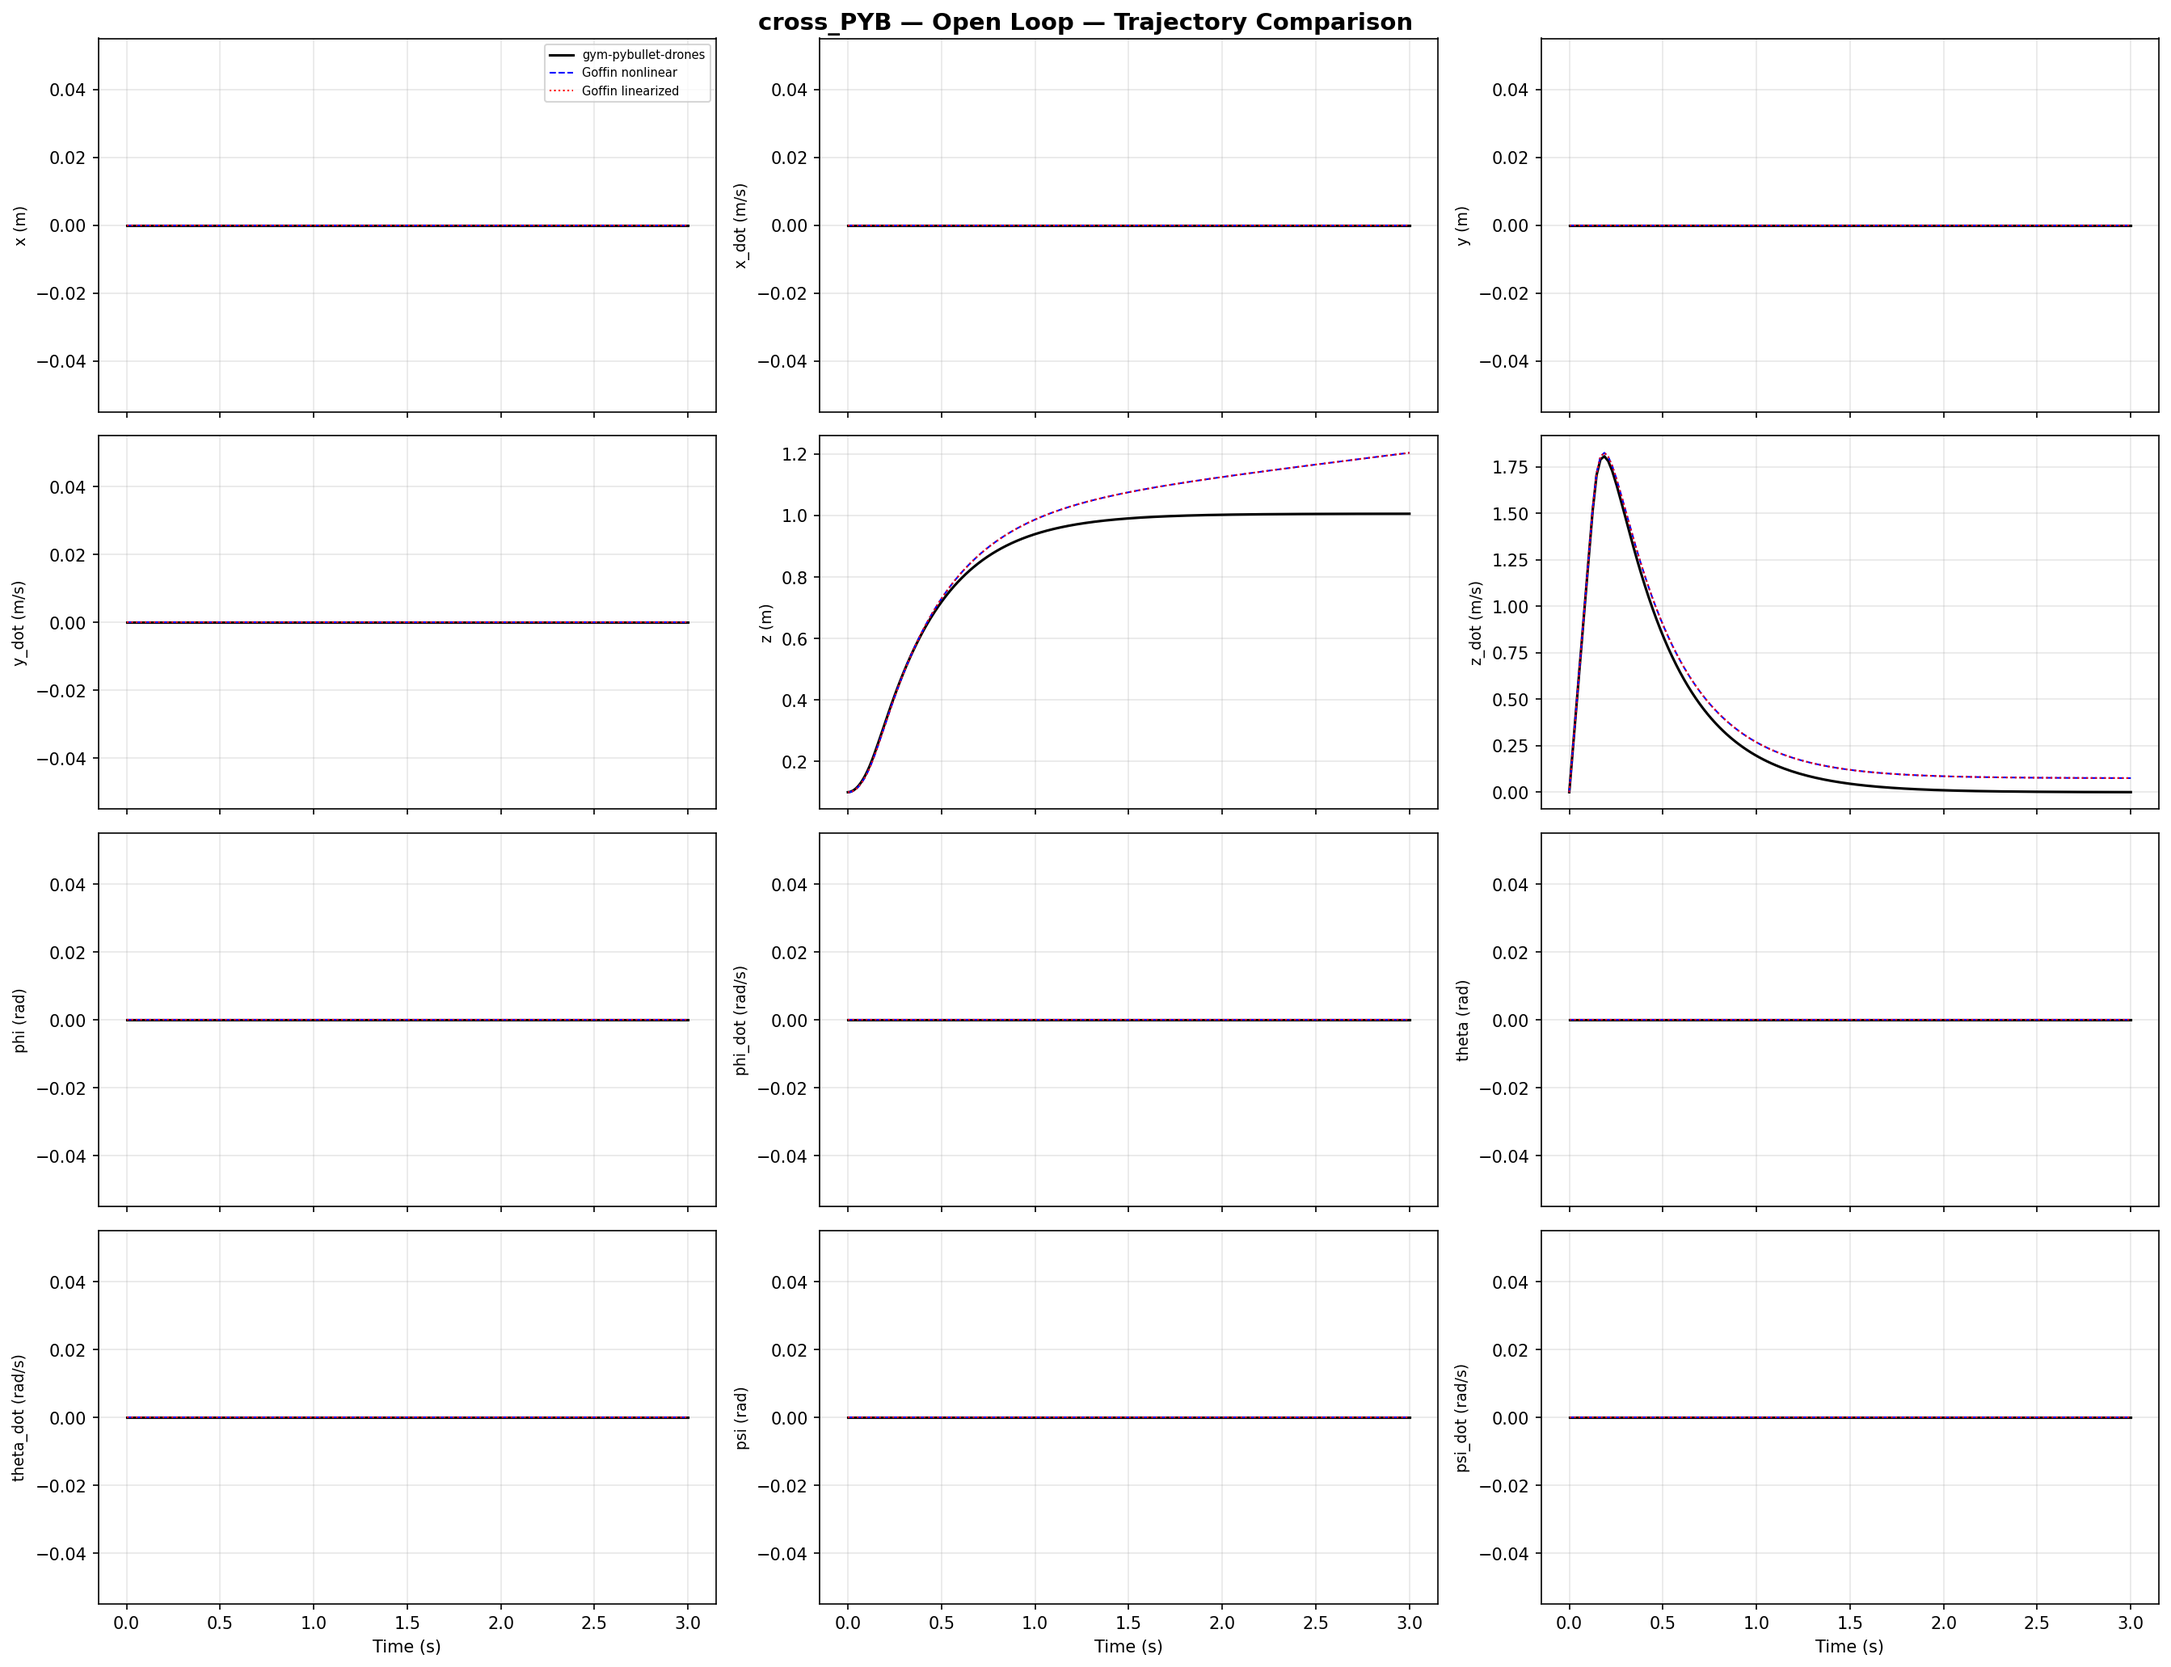
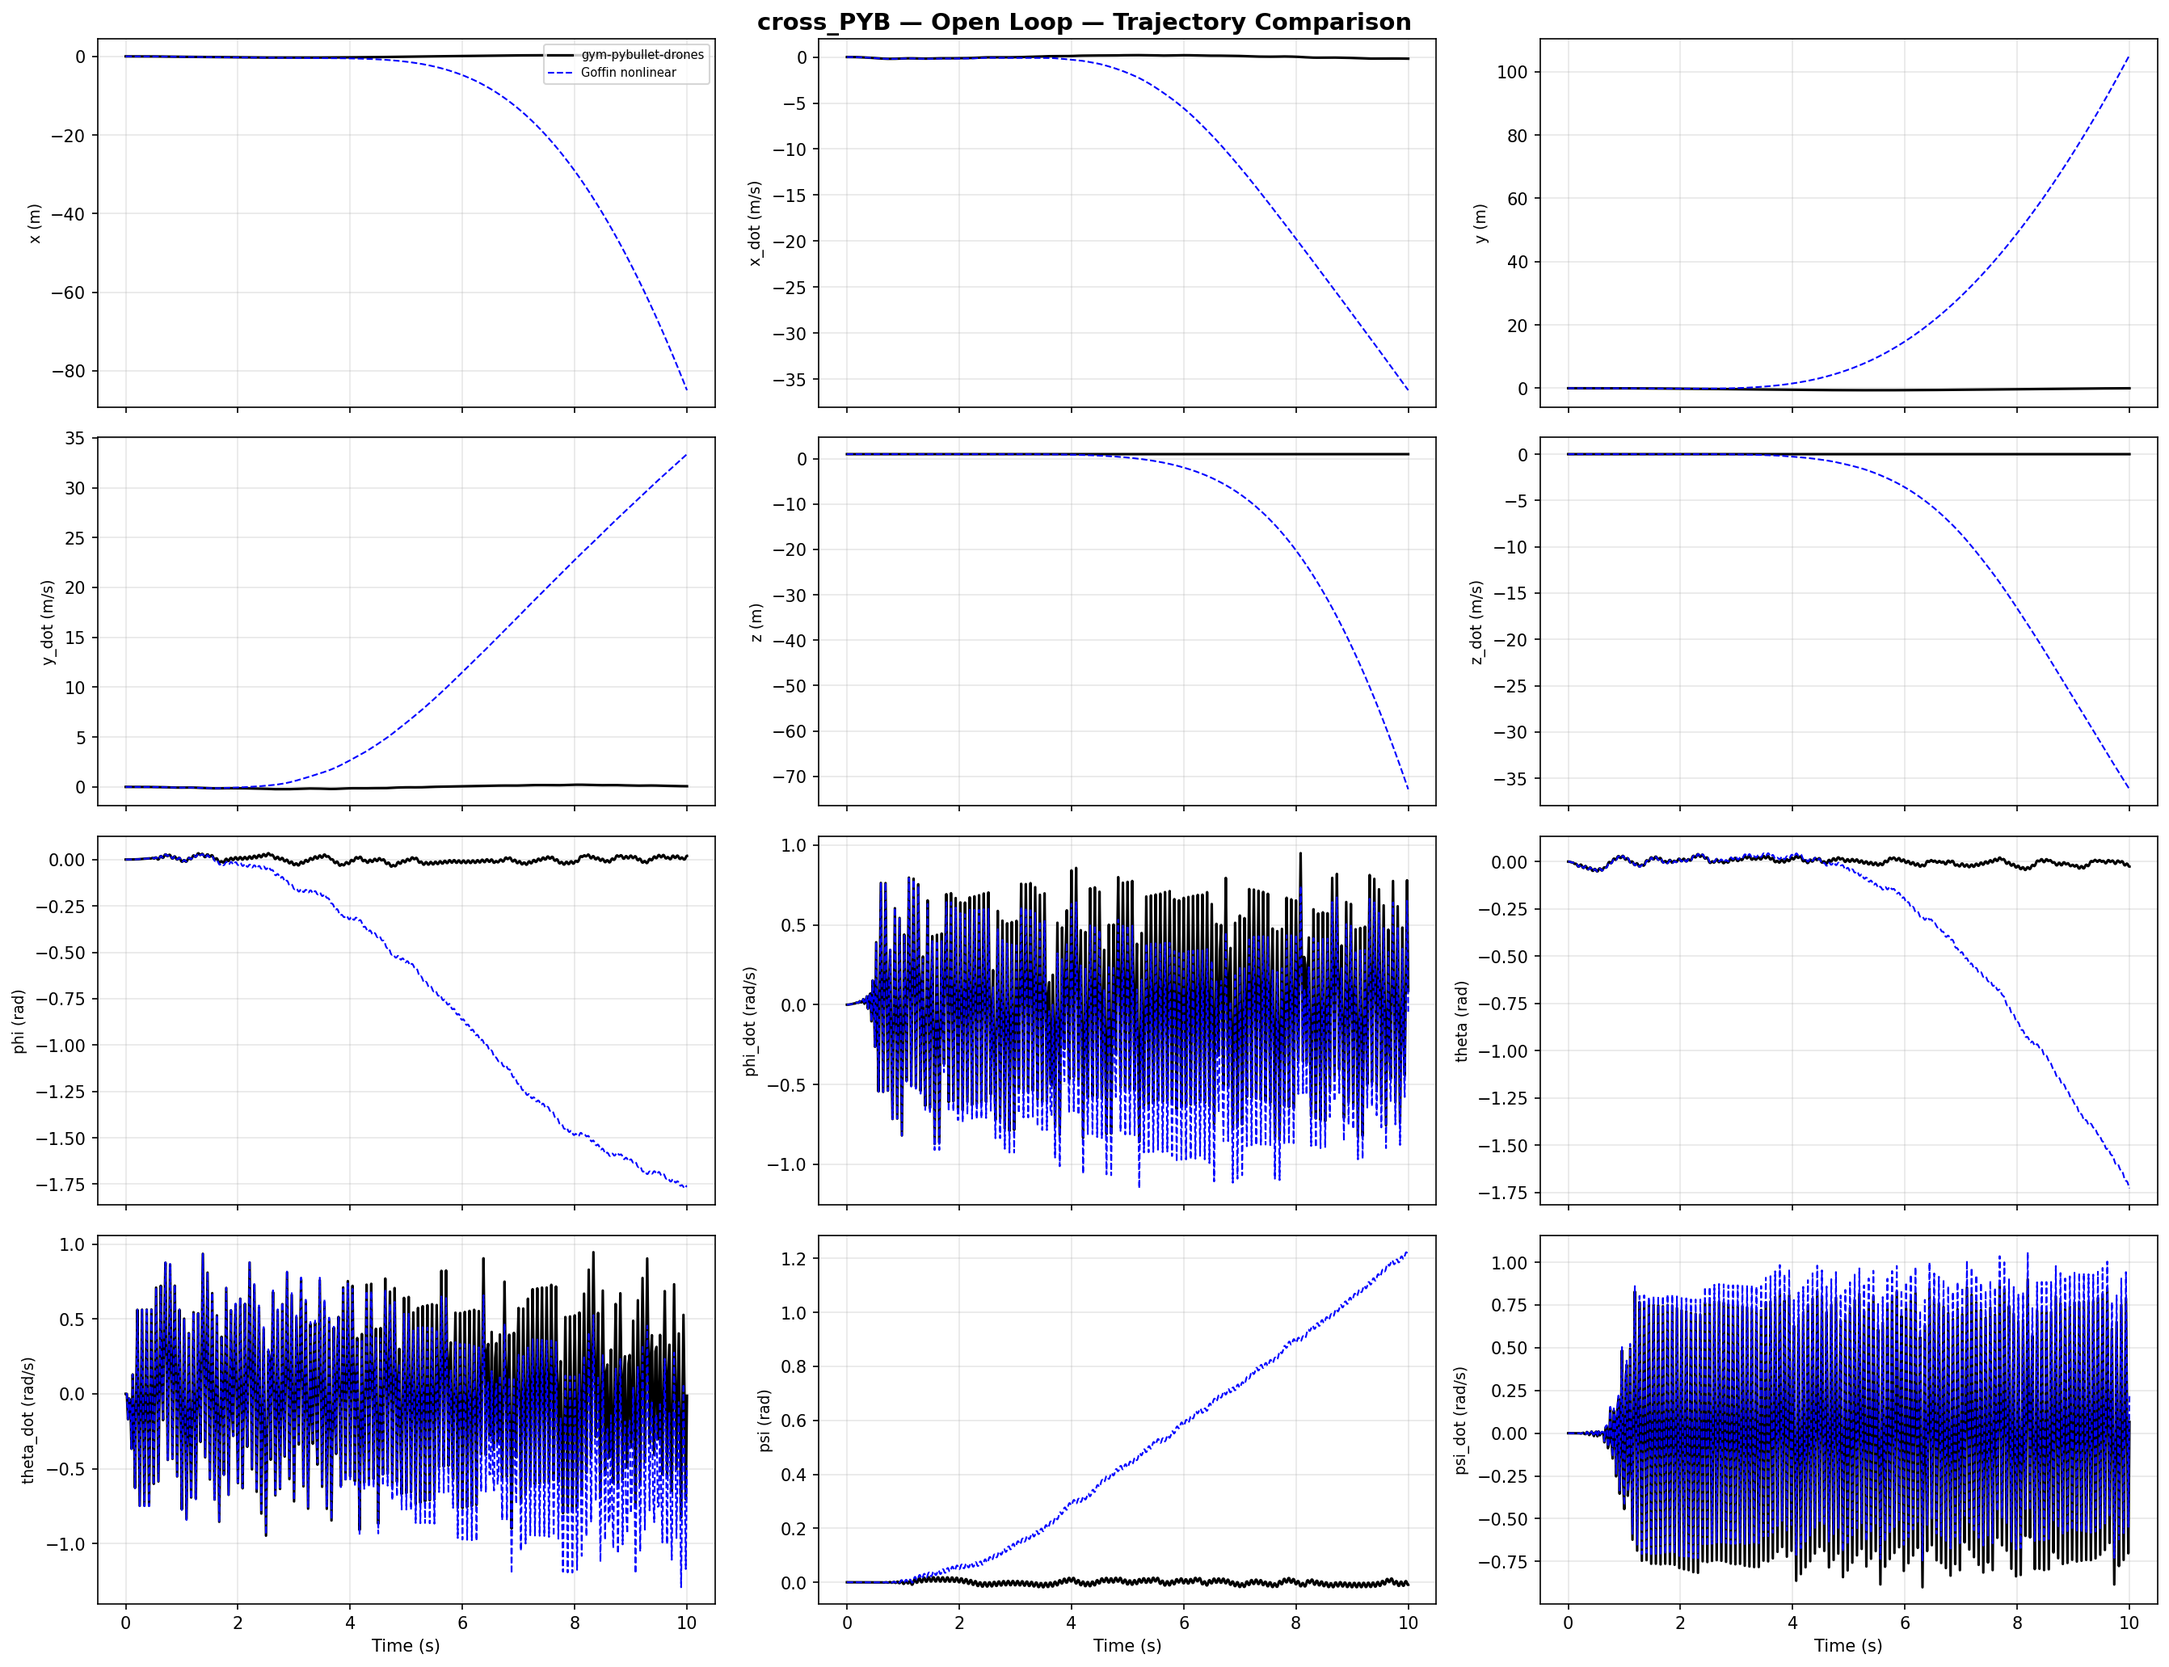
removed body to euler conversion

diff --git a/goffin_dynamics.py b/goffin_dynamics.py
@@ -292,21 +292,21 @@ def gym_state_to_goffin(pos, rpy, vel, ang_v):
     omega_body = R.T @ ang_v  # [p, q, r]
 
     # Body rates -> Euler rates
-    if np.abs(c_theta) > 1e-8:
-        t_theta = s_theta / c_theta
-        phi_dot   = omega_body[0] + s_phi * t_theta * omega_body[1] + c_phi * t_theta * omega_body[2]
-        theta_dot = c_phi * omega_body[1] - s_phi * omega_body[2]
-        psi_dot   = (s_phi / c_theta) * omega_body[1] + (c_phi / c_theta) * omega_body[2]
-    else:
-        phi_dot, theta_dot, psi_dot = omega_body
+    #if np.abs(c_theta) > 1e-8:
+    #    t_theta = s_theta / c_theta
+    #    phi_dot   = omega_body[0] + s_phi * t_theta * omega_body[1] + c_phi * t_theta * omega_body[2]
+    #    theta_dot = c_phi * omega_body[1] - s_phi * omega_body[2]
+    #    psi_dot   = (s_phi / c_theta) * omega_body[1] + (c_phi / c_theta) * omega_body[2]
+    #else:
+    #    phi_dot, theta_dot, psi_dot = omega_body
 
     return np.array([
         pos[0], vel[0],
         pos[1], vel[1],
         pos[2], vel[2],
-        phi,    phi_dot,
-        theta,  theta_dot,
-        psi,    psi_dot
+        phi,    omega_body[0],
+        theta,  omega_body[1],
+        psi,    omega_body[2]
     ])
 
 
